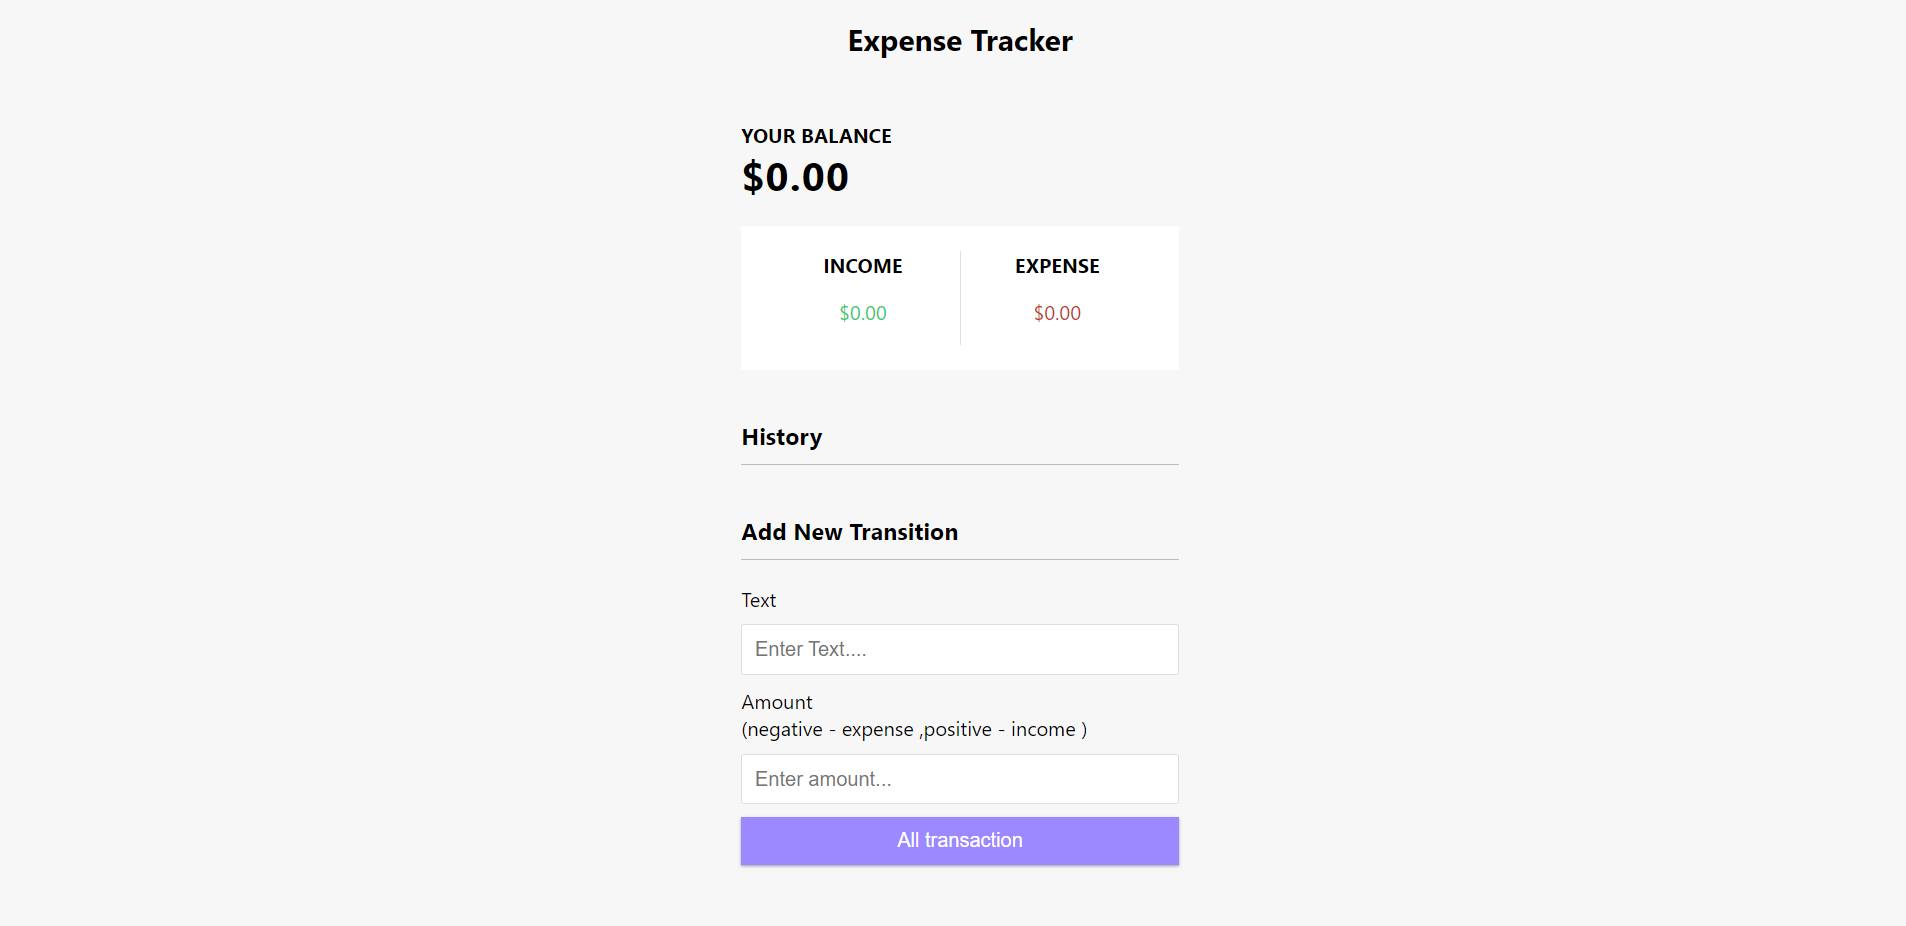
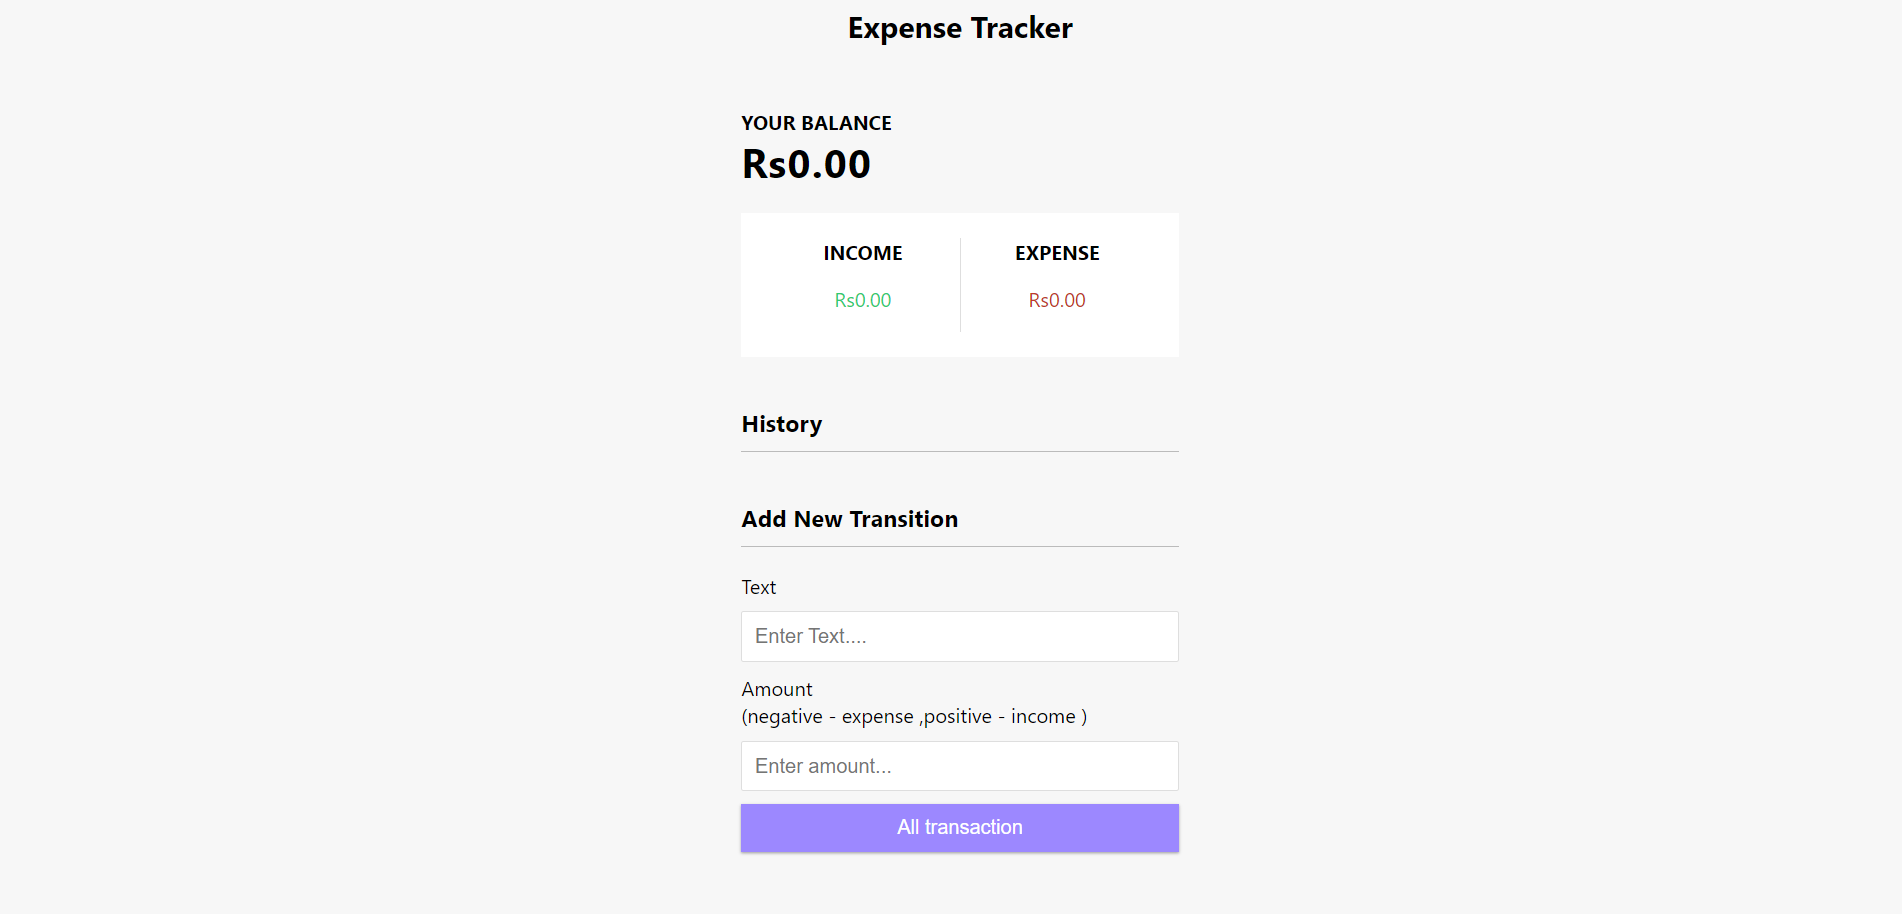
updated

diff --git a/assets/Js/expense.js b/assets/Js/expense.js
@@ -77,9 +77,9 @@ function updateValues() {
         .reduce((acc, item) => (acc += item), 0) *
       -1).toFixed(2);
   
-      balance.innerText=`$${total}`;
-      money_plus.innerText = `$${income}`;
-      money_minus.innerText = `$${expense}`;
+      balance.innerText=`Rs${total}`;
+      money_plus.innerText = `Rs${income}`;
+      money_minus.innerText = `Rs${expense}`;
   }
   
 function removeTransaction(id){
